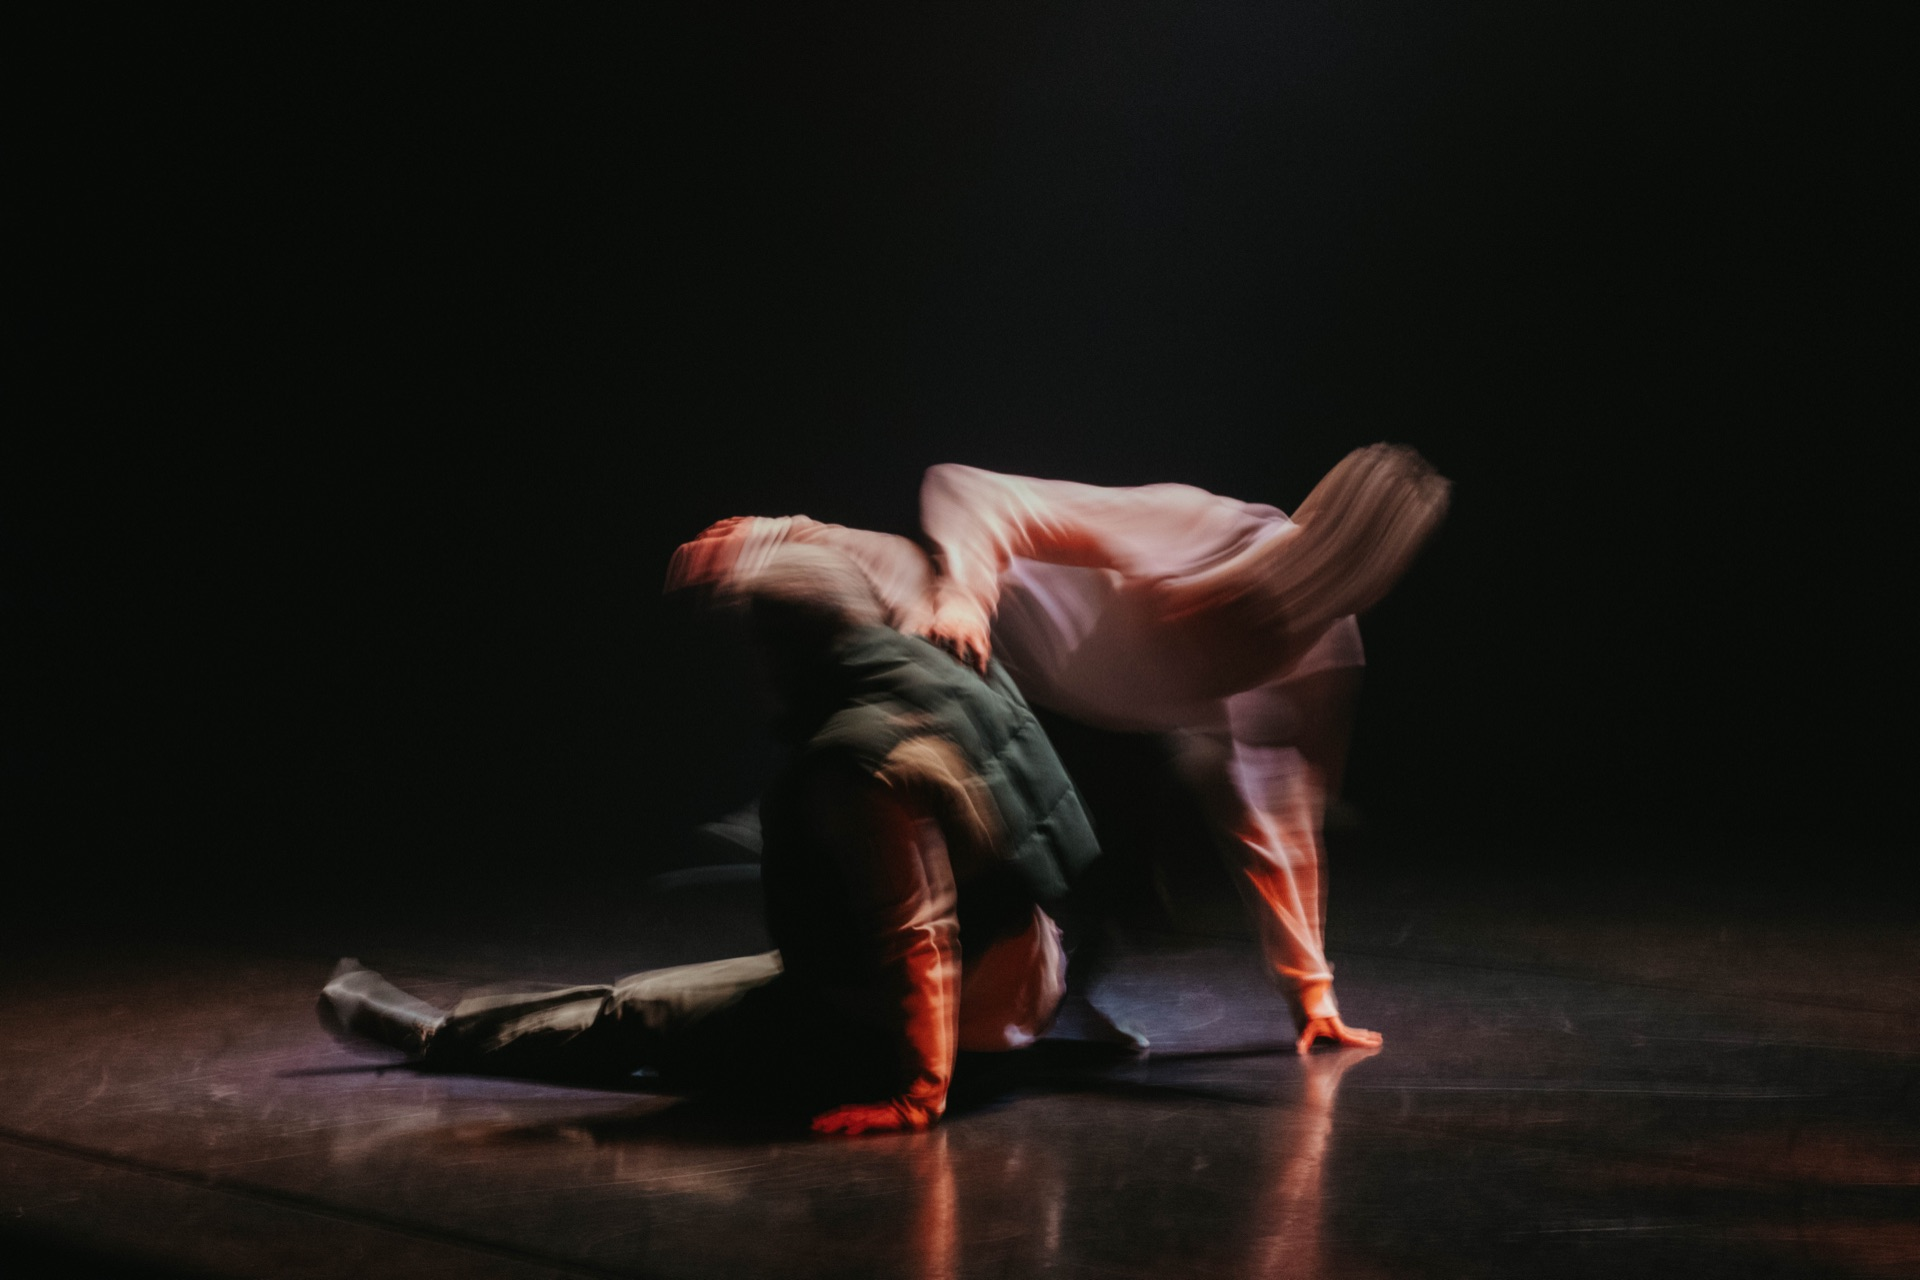
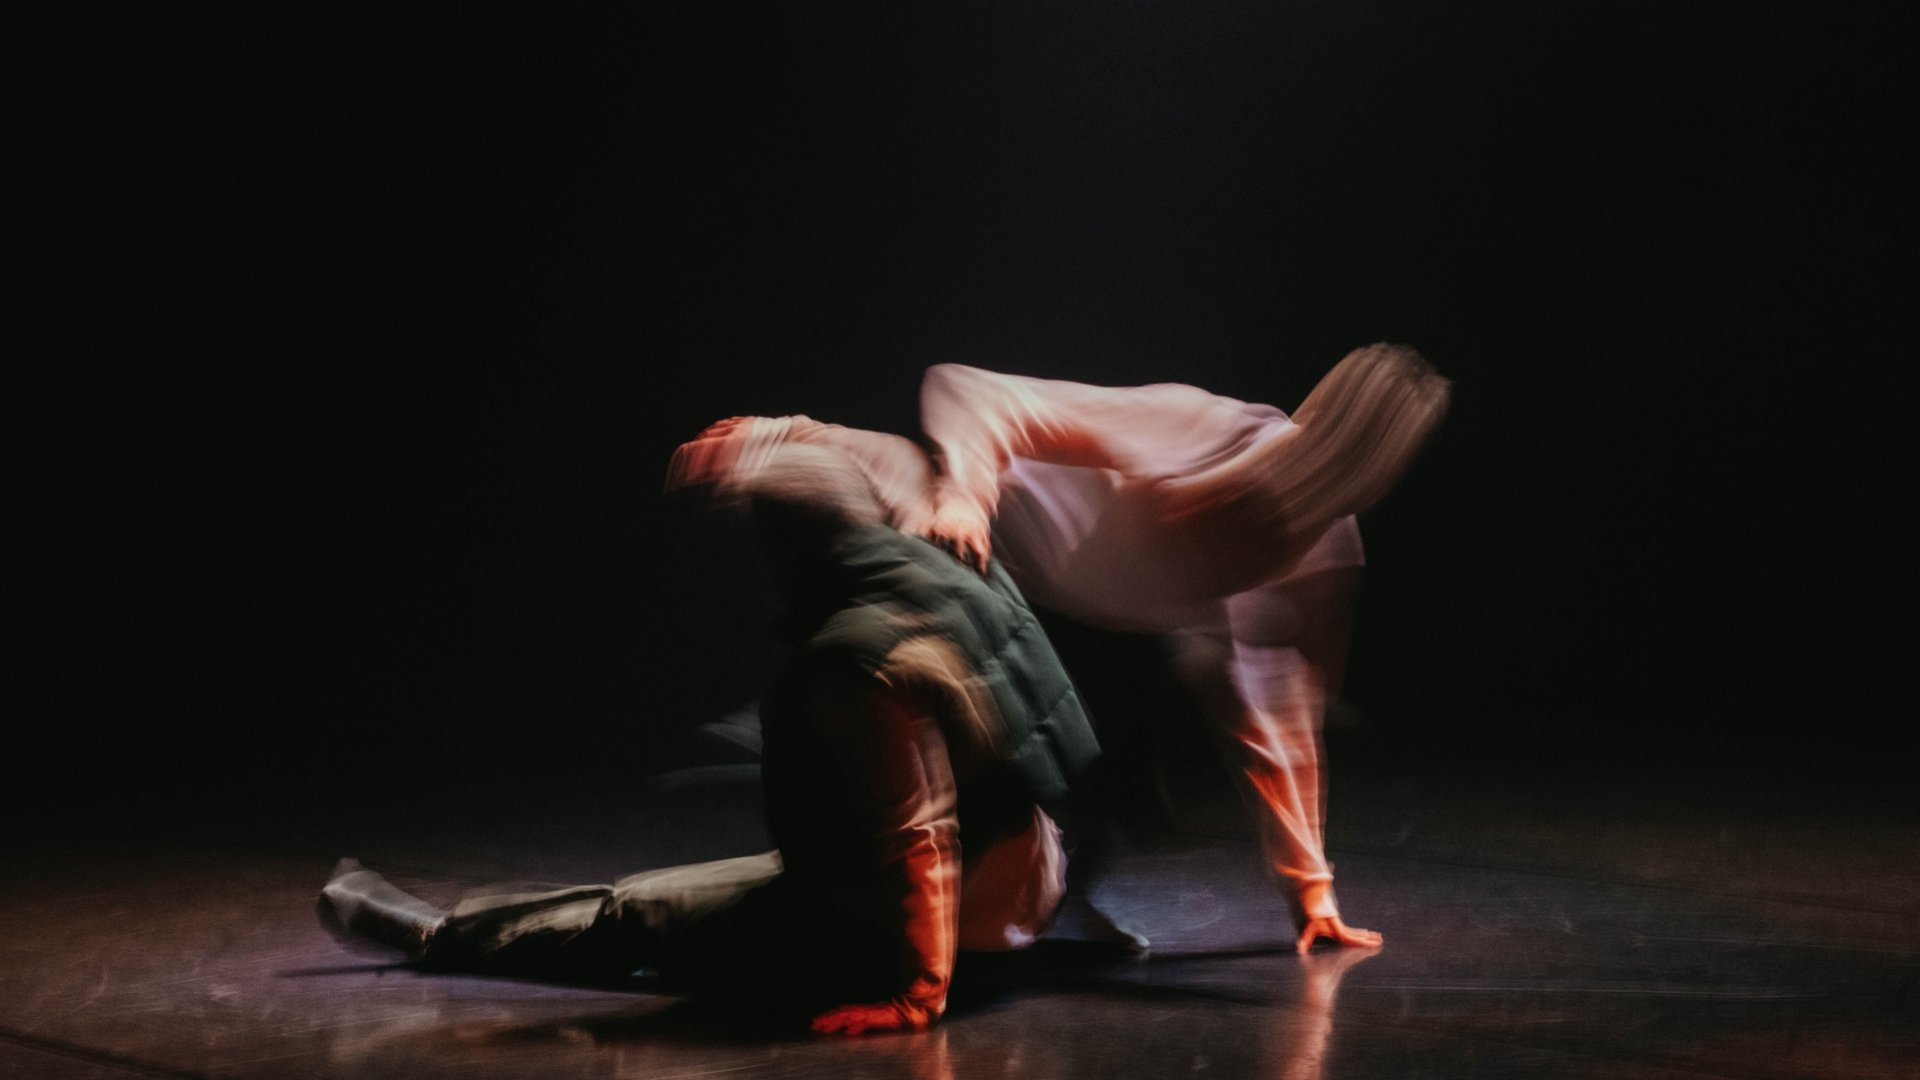
Crop all images to 16:9 — uniform sizing across all media
CB: 1920x1920 → 1920x1080 (center crop)
OURO: 1920x1280 → 1920x1080 (center crop)
Video was already 1920x1080.

All four featured assets are now exactly 16:9 at 1920px wide.
No browser-side cropping or inconsistent cover behavior.

diff --git a/index.html b/index.html
@@ -62,7 +62,7 @@
 
         <div class="show-proj reveal">
           <a class="show-media" href="complexbreaks.html">
-            <img src="img/complexbreaks/complexbreaks-elephant-graveyard.jpeg" alt="Complex Breaks — Elephant Graveyard jam" width="1920" height="1920" loading="lazy">
+            <img src="img/complexbreaks/complexbreaks-elephant-graveyard.jpeg" alt="Complex Breaks — Elephant Graveyard jam" width="1920" height="1080" loading="lazy">
           </a>
           <div class="show-label">
             <h2 class="show-title">Complex Breaks</h2>
@@ -73,7 +73,7 @@
 
         <div class="show-proj reveal">
           <a class="show-media" href="https://ourocollective.com" target="_blank" rel="noopener noreferrer">
-            <img src="img/ouro-preview.jpg" alt="OURO Collective — contemporary dance performance" width="1920" height="1280" loading="lazy">
+            <img src="img/ouro-preview.jpg" alt="OURO Collective — contemporary dance performance" width="1920" height="1080" loading="lazy">
           </a>
           <div class="show-label">
             <h2 class="show-title">OURO Collective</h2>
